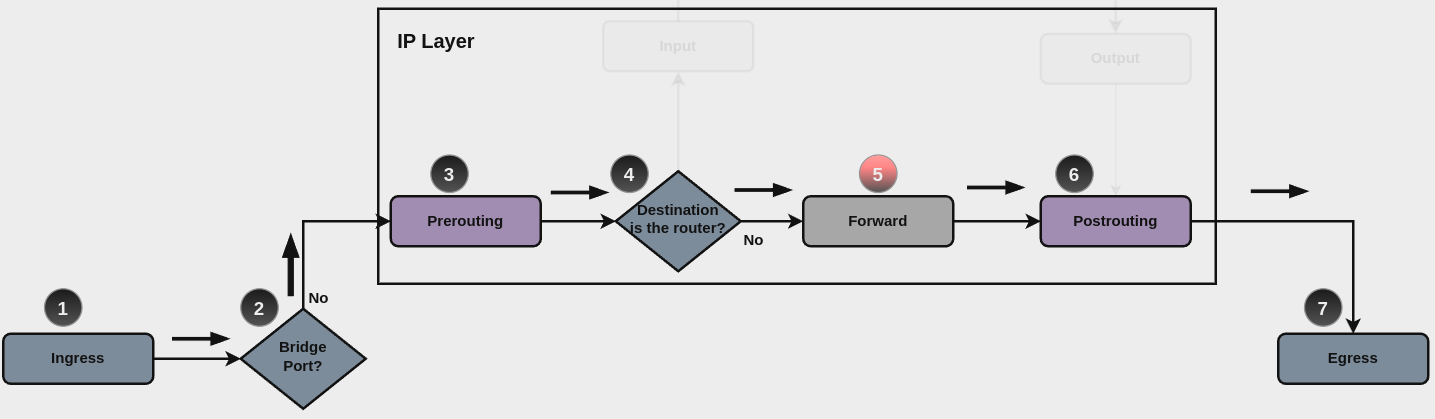
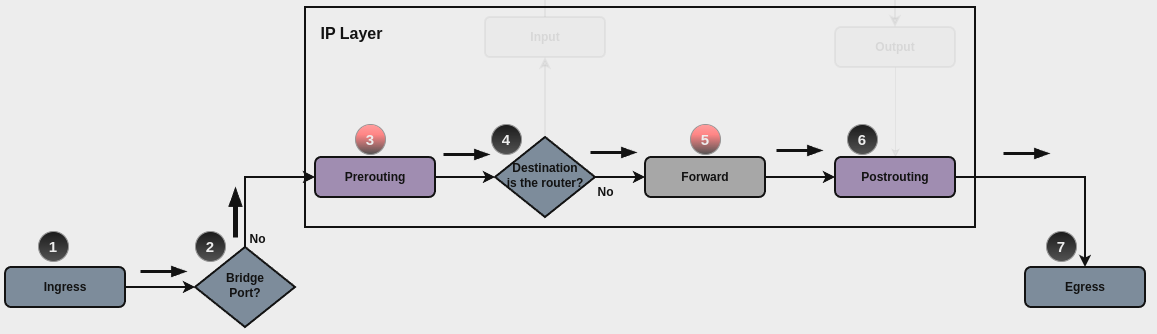
Firewall: Add prerouting information

diff --git a/docs/configuration/firewall/index.rst b/docs/configuration/firewall/index.rst
@@ -26,14 +26,23 @@ firewall are covered below:
 If the interface where the packet was received isn't part of a bridge, then 
 packet is processed at the **IP Layer**:
 
-   * **Prerouting**: several actions can be done in this stage, and currently
-     these actions are defined in different parts in VyOS configuration. Order
-     is important, and all these actions are performed before any actions
-     defined under ``firewall`` section. Relevant configuration that acts in
-     this stage are:
+   * **Prerouting**: All packets that are received by the router
+     are processed in this stage, regardless of the destination of the packet.
+     Starting from vyos-1.5-rolling-202406120020, a new section was added to
+     firewall configuration. There are several actions that can be done in this
+     stage, and currently these actions are also defined in different parts in
+     VyOS configuration. Order is important, and relevant configuration that
+     acts in this stage are:
+
+      * **Firewall prerouting**: rules defined under ``set firewall [ipv4 |
+        ipv6] prerouting raw...``. All rules defined in this section are
+        processed before connection tracking subsystem.
 
       * **Conntrack Ignore**: rules defined under ``set system conntrack ignore
-        [ipv4 | ipv6] ...``.
+        [ipv4 | ipv6] ...``. Starting from vyos-1.5-rolling-202406120020,
+        configuration done in this section can be done in ``firewall [ipv4 |
+        ipv6] prerouting ...``. For compatibility reasons, this feature is
+        still present, but it will be removed in the future.
 
       * **Policy Route**: rules defined under ``set policy [route | route6]
         ...``.
@@ -67,11 +76,13 @@ packet is processed at the **IP Layer**:
      new connection originated by a internal process running on VyOS router,
      such as NTP, or a response to traffic received externally through
      **input** (for example response to an ssh login attempt to the router).
-     This includes ipv4 and ipv6 filtering rules, defined in:
+     This includes ipv4 and ipv6 rules, and two different sections are present:
 
-     * ``set firewall ipv4 output filter ...``.
+     * **Output Prerouting**: ``set firewall [ipv4 | ipv6] output filter ...``.
+       As described in **Prerouting**, rules defined in this section are
+       processed before connection tracking subsystem.
 
-     * ``set firewall ipv6 output filter ...``.
+     * **Output Filter**: ``set firewall [ipv4 | ipv6] output filter ...``.
 
    * **Postrouting**: as in **Prerouting**, several actions defined in
      different parts of VyOS configuration are performed in this
@@ -120,6 +131,9 @@ The main structure of the VyOS firewall CLI is shown next:
                + filter
             - output
                + filter
+               + raw
+            - prerouting
+               + raw
             - name
                + custom_name
        * ipv6
@@ -129,6 +143,9 @@ The main structure of the VyOS firewall CLI is shown next:
                + filter
             - output
                + filter
+               + raw
+            - prerouting
+               + raw
             - ipv6-name
                + custom_name
        * zone

diff --git a/docs/configuration/firewall/ipv6.rst b/docs/configuration/firewall/ipv6.rst
@@ -31,8 +31,25 @@ of the general structure:
                + filter
             - output
                + filter
+               + raw
+            - prerouting
+               + raw
             - name
                + custom_name
+
+First, all traffic is received by the router, and it is processed in the
+**prerouting** section.
+
+This stage includes:
+
+   * **Firewall Prerouting**: commands found under ``set firewall ipv6
+     prerouting raw ...``
+   * :doc:`Conntrack Ignore</configuration/system/conntrack>`: ``set system
+     conntrack ignore ipv6...``
+   * :doc:`Policy Route</configuration/policy/route>`: commands found under
+     ``set policy route6 ...``
+   * :doc:`Destination NAT</configuration/nat/nat44>`: commands found under
+     ``set nat66 destination ...``
 
 For transit traffic, which is received by the router and forwarded, base chain
 is **forward**. A simplified packet flow diagram for transit traffic is shown
@@ -40,8 +57,8 @@ next:
 
 .. figure:: /_static/images/firewall-fwd-packet-flow.png
 
-Where firewall base chain to configure firewall filtering rules for transit
-traffic is ``set firewall ipv6 forward filter ...``, which happens in stage 5,
+Firewall base chain to configure firewall filtering rules for transit traffic
+is ``set firewall ipv6 forward filter ...``, which happens in stage 5,
 highlighted with red color.
 
 For traffic towards the router itself, base chain is **input**, while traffic
@@ -52,11 +69,17 @@ router (starting from circle number 6):
 
 .. figure:: /_static/images/firewall-input-packet-flow.png
 
-Base chain is for traffic toward the router is ``set firewall ipv6 input
+Base chain for traffic towards the router is ``set firewall ipv6 input
 filter ...``
 
 And base chain for traffic generated by the router is ``set firewall ipv6
-output filter ...``
+output filter ...``, where two sub-chains are available: **filter** and **raw**:
+
+* **Output Prerouting**: ``set firewall ipv6 output raw ...``.
+  As described in **Prerouting**, rules defined in this section are
+  processed before connection tracking subsystem.
+* **Output Filter**: ``set firewall ipv6 output filter ...``. Rules defined
+  in this section are processed after connection tracking subsystem.
 
 .. note:: **Important note about default-actions:**
    If default action for any base chain is not defined, then the default

diff --git a/docs/configuration/firewall/ipv4.rst b/docs/configuration/firewall/ipv4.rst
@@ -31,8 +31,25 @@ of the general structure:
                + filter
             - output
                + filter
+               + raw
+            - prerouting
+               + raw
             - name
                + custom_name
+
+First, all traffic is received by the router, and it is processed in the
+**prerouting** section.
+
+This stage includes:
+
+   * **Firewall Prerouting**: commands found under ``set firewall ipv4
+     prerouting raw ...``
+   * :doc:`Conntrack Ignore</configuration/system/conntrack>`: ``set system
+     conntrack ignore ipv4...``
+   * :doc:`Policy Route</configuration/policy/route>`: commands found under
+     ``set policy route ...``
+   * :doc:`Destination NAT</configuration/nat/nat44>`: commands found under
+     ``set nat destination ...``
 
 For transit traffic, which is received by the router and forwarded, base chain
 is **forward**. A simplified packet flow diagram for transit traffic is shown
@@ -40,8 +57,8 @@ next:
 
 .. figure:: /_static/images/firewall-fwd-packet-flow.png
 
-Where firewall base chain to configure firewall filtering rules for transit
-traffic is ``set firewall ipv4 forward filter ...``, which happens in stage 5,
+Firewall base chain to configure firewall filtering rules for transit traffic
+is ``set firewall ipv4 forward filter ...``, which happens in stage 5,
 highlighted with red color.
 
 For traffic towards the router itself, base chain is **input**, while traffic
@@ -52,11 +69,17 @@ router (starting from circle number 6):
 
 .. figure:: /_static/images/firewall-input-packet-flow.png
 
-Base chain is for traffic toward the router is ``set firewall ipv4 input
+Base chain for traffic towards the router is ``set firewall ipv4 input
 filter ...``
 
 And base chain for traffic generated by the router is ``set firewall ipv4
-output filter ...``
+output ...``, where two sub-chains are available: **filter** and **raw**:
+
+* **Output Prerouting**: ``set firewall ipv4 output raw ...``.
+  As described in **Prerouting**, rules defined in this section are
+  processed before connection tracking subsystem.
+* **Output Filter**: ``set firewall ipv4 output filter ...``. Rules defined
+  in this section are processed after connection tracking subsystem.
 
 .. note:: **Important note about default-actions:**
    If default action for any base chain is not defined, then the default

diff --git a/docs/configuration/system/conntrack.rst b/docs/configuration/system/conntrack.rst
@@ -64,39 +64,7 @@ Configure
 Contrack Timeouts
 =================
 
-VyOS supports setting timeouts for connections according to the
-connection type. You can set timeout values for generic connections, for ICMP
-connections, UDP connections, or for TCP connections in a number of different
-states.
-
-.. cfgcmd:: set system conntrack timeout icmp <1-21474836>
-    :defaultvalue:
-.. cfgcmd:: set system conntrack timeout other <1-21474836>
-    :defaultvalue:
-.. cfgcmd:: set system conntrack timeout tcp close <1-21474836>
-    :defaultvalue:
-.. cfgcmd:: set system conntrack timeout tcp close-wait <1-21474836>
-    :defaultvalue:
-.. cfgcmd:: set system conntrack timeout tcp established <1-21474836>
-    :defaultvalue:
-.. cfgcmd:: set system conntrack timeout tcp fin-wait <1-21474836>
-    :defaultvalue:
-.. cfgcmd:: set system conntrack timeout tcp last-ack <1-21474836>
-    :defaultvalue:
-.. cfgcmd:: set system conntrack timeout tcp syn-recv <1-21474836>
-    :defaultvalue:
-.. cfgcmd:: set system conntrack timeout tcp syn-sent <1-21474836>
-    :defaultvalue:
-.. cfgcmd:: set system conntrack timeout tcp time-wait <1-21474836>
-    :defaultvalue:
-.. cfgcmd:: set system conntrack timeout udp other <1-21474836>
-    :defaultvalue:
-.. cfgcmd:: set system conntrack timeout udp stream <1-21474836>
-    :defaultvalue:
-
-    Set the timeout in seconds for a protocol or state.
-
-You can also define custom timeout values to apply to a specific subset of
+You can define custom timeout values to apply to a specific subset of
 connections, based on a packet and flow selector. To do this, you need to
 create a rule defining the packet and flow selector.
 
@@ -176,6 +144,11 @@ create a rule defining the packet and flow selector.
 
 Conntrack ignore rules
 ======================
+
+.. note:: **Important note about conntrack ignore rules:**
+   Starting from vyos-1.5-rolling-202406120020, ignore rules can be defined in
+   ``set firewall [ipv4 | ipv6] prerouting raw ...``. It's expected that in
+   the future the conntrack ignore rules will be removed.
 
     Customized ignore rules, based on a packet and flow selector.
 

diff --git a/docs/configuration/firewall/global-options.rst b/docs/configuration/firewall/global-options.rst
@@ -145,3 +145,35 @@ Configuration
    [emerg | alert | crit | err | warn | notice | info | debug]
 
    Set the global setting for related connections.
+
+VyOS supports setting timeouts for connections according to the
+connection type. You can set timeout values for generic connections, for ICMP
+connections, UDP connections, or for TCP connections in a number of different
+states.
+
+.. cfgcmd:: set firewall global-options timeout icmp <1-21474836>
+    :defaultvalue:
+.. cfgcmd:: set firewall global-options timeout other <1-21474836>
+    :defaultvalue:
+.. cfgcmd:: set firewall global-options timeout tcp close <1-21474836>
+    :defaultvalue:
+.. cfgcmd:: set firewall global-options timeout tcp close-wait <1-21474836>
+    :defaultvalue:
+.. cfgcmd:: set firewall global-options timeout tcp established <1-21474836>
+    :defaultvalue:
+.. cfgcmd:: set firewall global-options timeout tcp fin-wait <1-21474836>
+    :defaultvalue:
+.. cfgcmd:: set firewall global-options timeout tcp last-ack <1-21474836>
+    :defaultvalue:
+.. cfgcmd:: set firewall global-options timeout tcp syn-recv <1-21474836>
+    :defaultvalue:
+.. cfgcmd:: set firewall global-options timeout tcp syn-sent <1-21474836>
+    :defaultvalue:
+.. cfgcmd:: set firewall global-options timeout tcp time-wait <1-21474836>
+    :defaultvalue:
+.. cfgcmd:: set firewall global-options timeout udp other <1-21474836>
+    :defaultvalue:
+.. cfgcmd:: set firewall global-options timeout udp stream <1-21474836>
+    :defaultvalue:
+
+    Set the timeout in seconds for a protocol or state.
